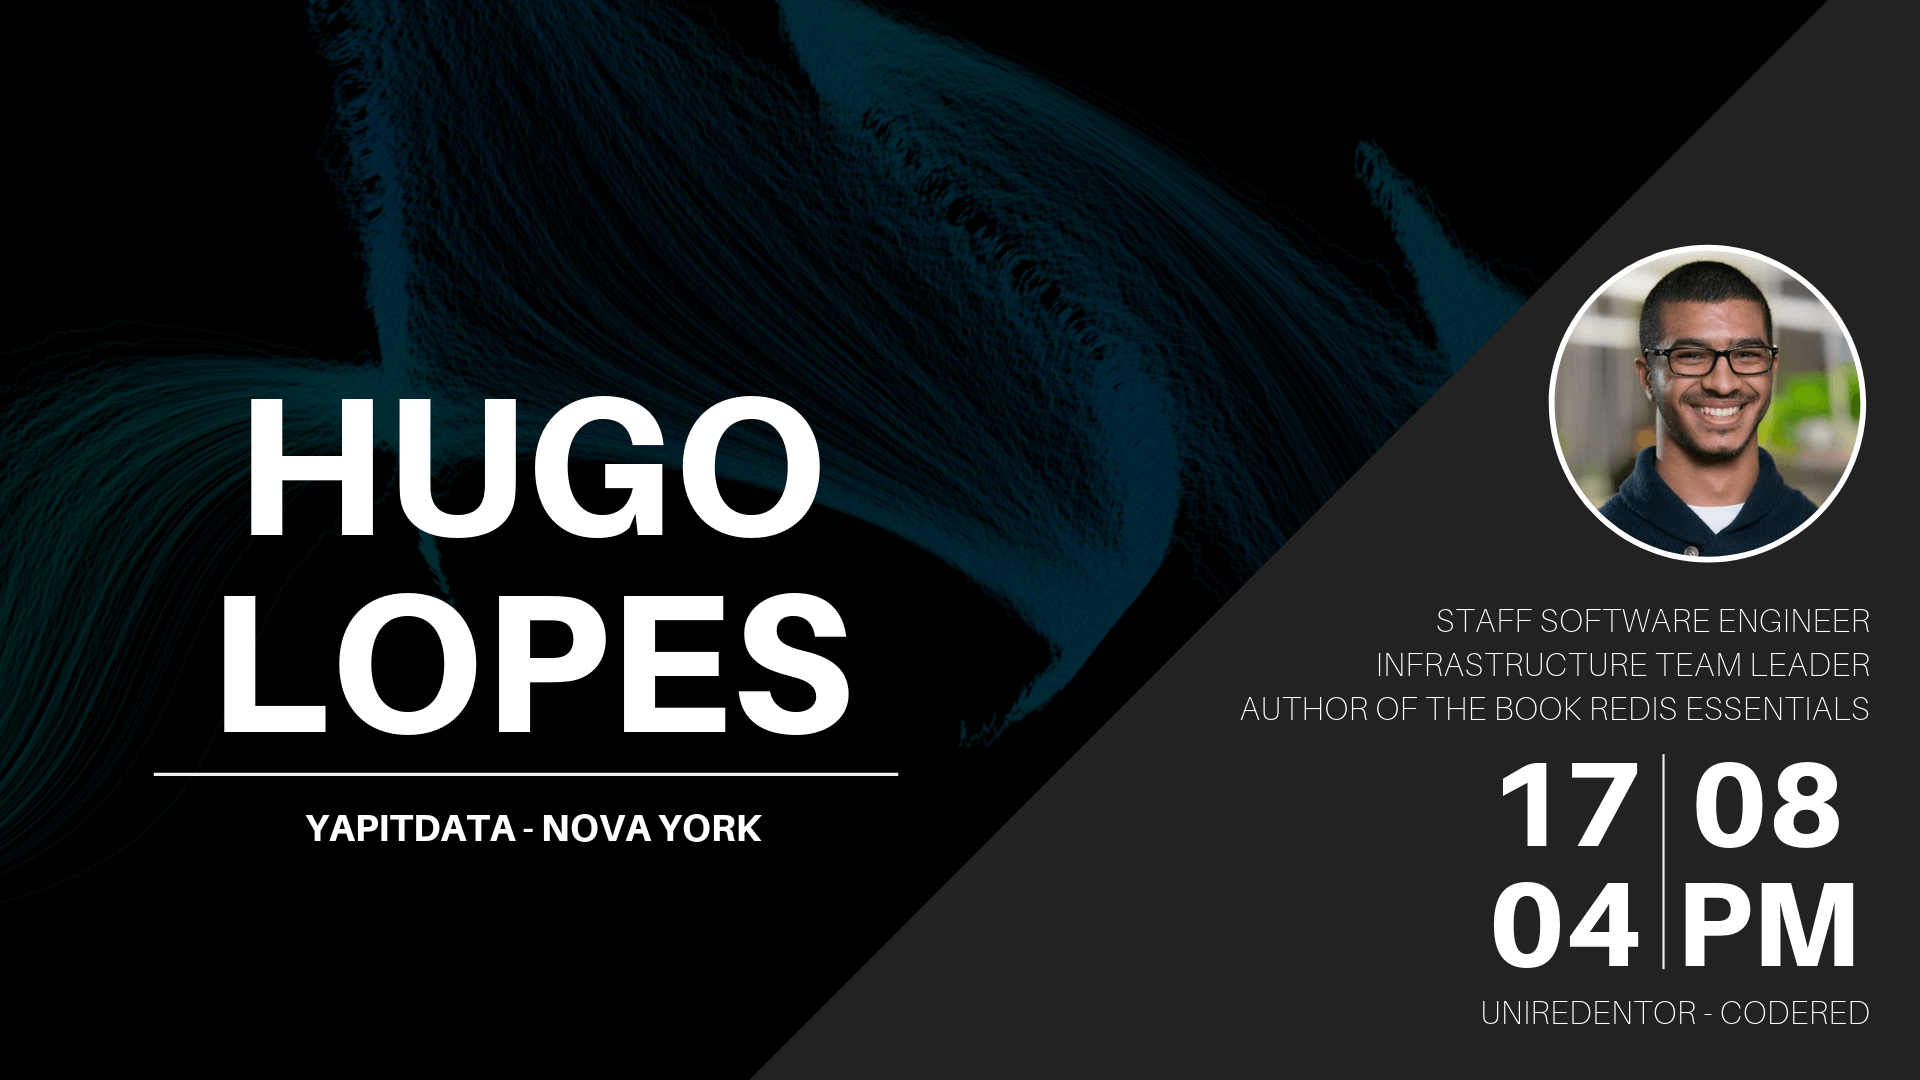
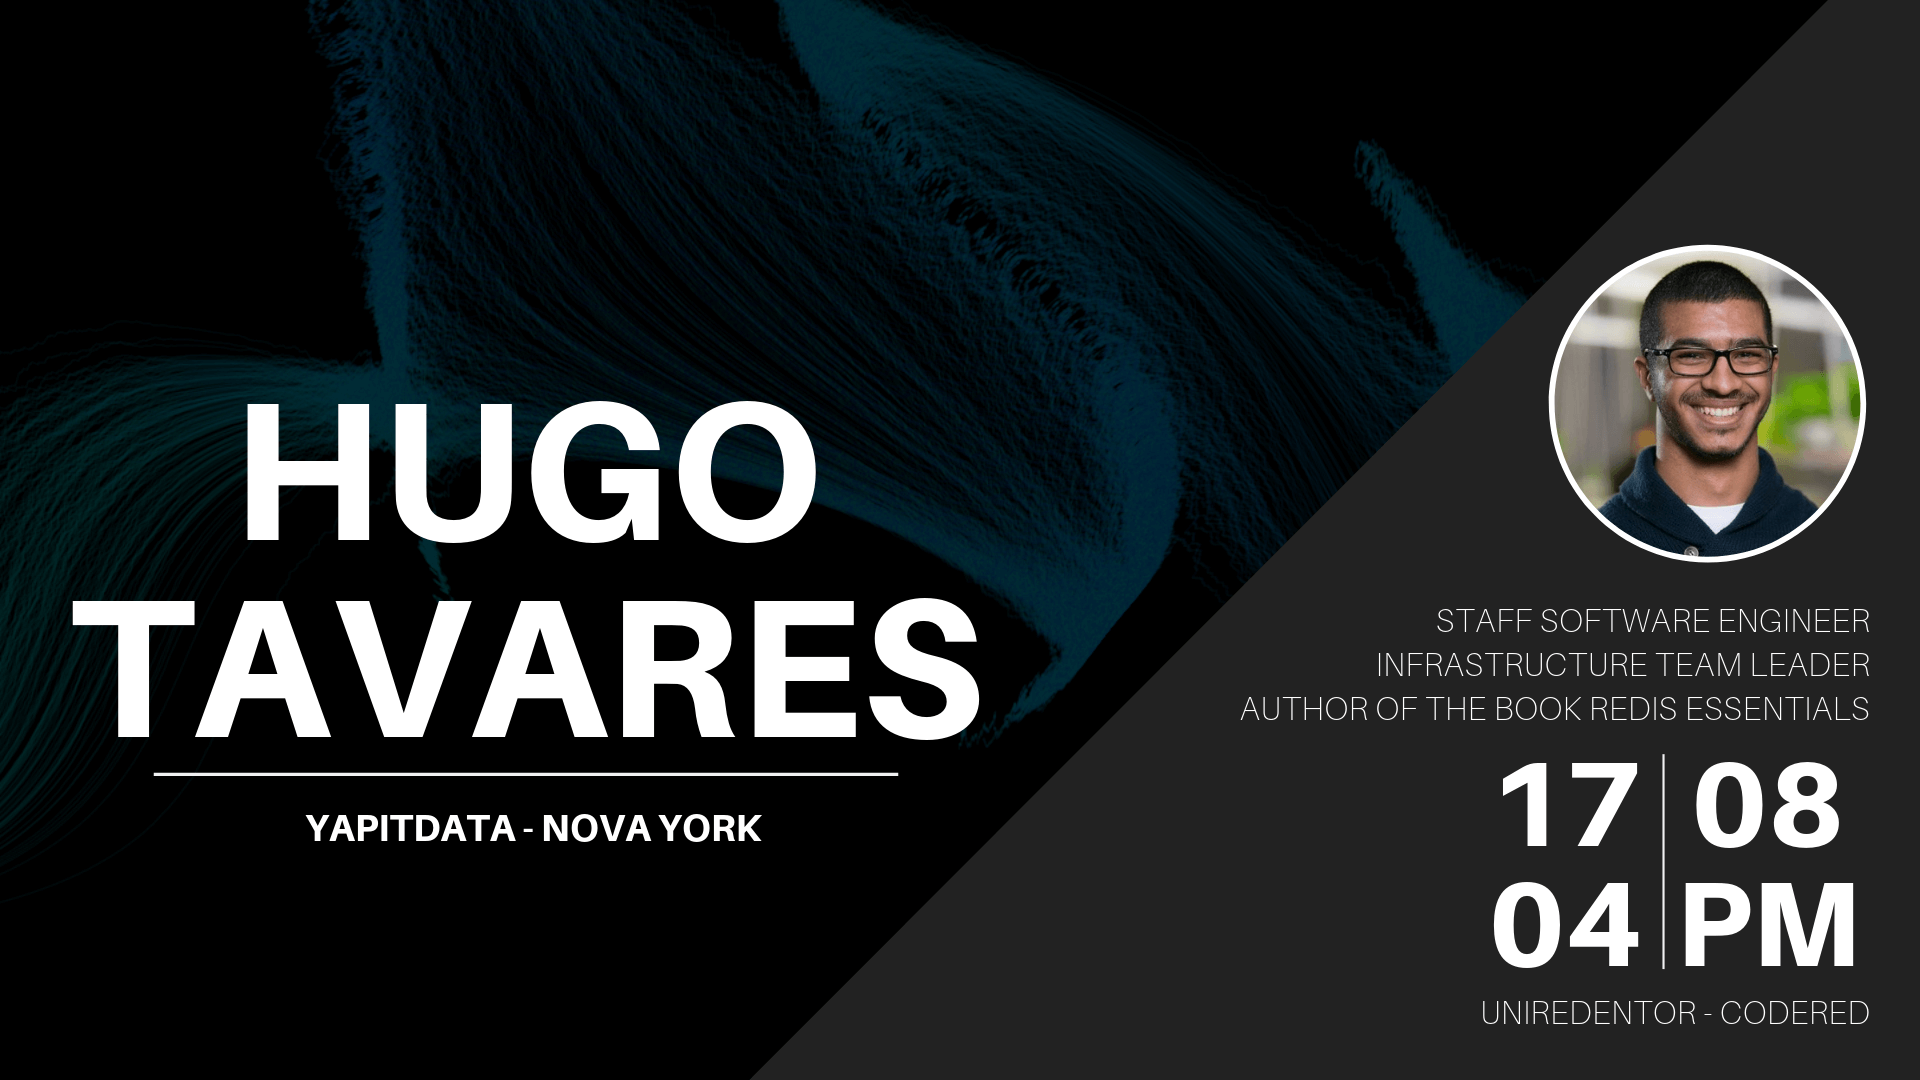
Adicionado correção no nome e imagens do palestrante
Também foi corrigido os controles do video da pagina inical que estavam aparecendo

diff --git a/index.html b/index.html
@@ -13,7 +13,7 @@ bottom_image: https://i.ytimg.com/vi/z2rBvX_w4sk/maxresdefault.jpg
 			<div class="cta button alt"><a href="{{ site.baseurl }}/quemsomos">Conheça</a></div>
 		</div>
 	</div>
-	<video class="hero-video" loop="" autoplay="" muted="" poster="images/coding.png" controls>
+	<video class="hero-video" loop="" autoplay="" muted="" poster="images/coding.png">
       <source type="video/webm" src="images/coding.webm">
       <source type="video/mp4" src="images/coding.mp4">
      	<img src="images/coding.png" alt="" />

diff --git a/_eventos/2019-03-22-palestrahugolopes.md b/_eventos/2019-03-22-palestrahugolopes.md
@@ -1,6 +1,6 @@
 ---
 layout: event
-title: Hugo Lopes
+title: Hugo Tavares
 slogan: Líder do time de infraestrutura da YipitData
 date: 06-03-2019
 event_date: 17/04/2019
@@ -13,7 +13,7 @@ image: /images/events/02-cover.png
 image_card: /images/events/palestra.png
 card_hexa: 1e1f1a
 instructor_image: /images/instructors/hugolopes.jpeg
-instructor_name: Hugo Lopes
+instructor_name: Hugo Tavares
 instructor_contact: https://www.linkedin.com/in/hltbra/
 inscription_form: 
 allow_inscription: noinscription
@@ -21,11 +21,11 @@ files:
 ---
 
 
-Autor do livro [Redis Essentials](https://www.amazon.com/Redis-Essentials-Maxwell-Dayvson-Silva-ebook/dp/B00ZXFCFLO), Hugo Lopes é líder do time de infraestrutura da YipitData em Nova York, ja contribuiu em projetos open source como pip, splinter, should-dsl e outros.
+Autor do livro [Redis Essentials](https://www.amazon.com/Redis-Essentials-Maxwell-Dayvson-Silva-ebook/dp/B00ZXFCFLO), Hugo Tavares é líder do time de infraestrutura da YipitData em Nova York, ja contribuiu em projetos open source como pip, splinter, should-dsl e outros.
 
 A [YipitData](https://www.yipitdata.com/) é uma empresa Americana que identifica e realiza análise de dados alternativos provendo informações valiosas para investidores e empreendedores. 
 
-Nessa palestra vamos conhecer um pouco da história do [Hugo Lopes](https://www.linkedin.com/in/hltbra/) e entender quais os desafios de se trabalhar em uma empresa americana, o que é preciso para se tornar um programador reconhecido internacionalmente e com o que ele trabalha no seu dia a dia.
+Nessa palestra vamos conhecer um pouco da história do [Hugo Tavares](https://www.linkedin.com/in/hltbra/) e entender quais os desafios de se trabalhar em uma empresa americana, o que é preciso para se tornar um programador reconhecido internacionalmente e com o que ele trabalha no seu dia a dia.
 
 O evento irá ocorrer no dia **17 de abril** no **Auditório da UniRedentor** das **20:00h** com previsão de término as **21:00h**. A entrada é gratuita e não é preciso ter background de tecnologia. Curiosos são bem vindos. 
 
